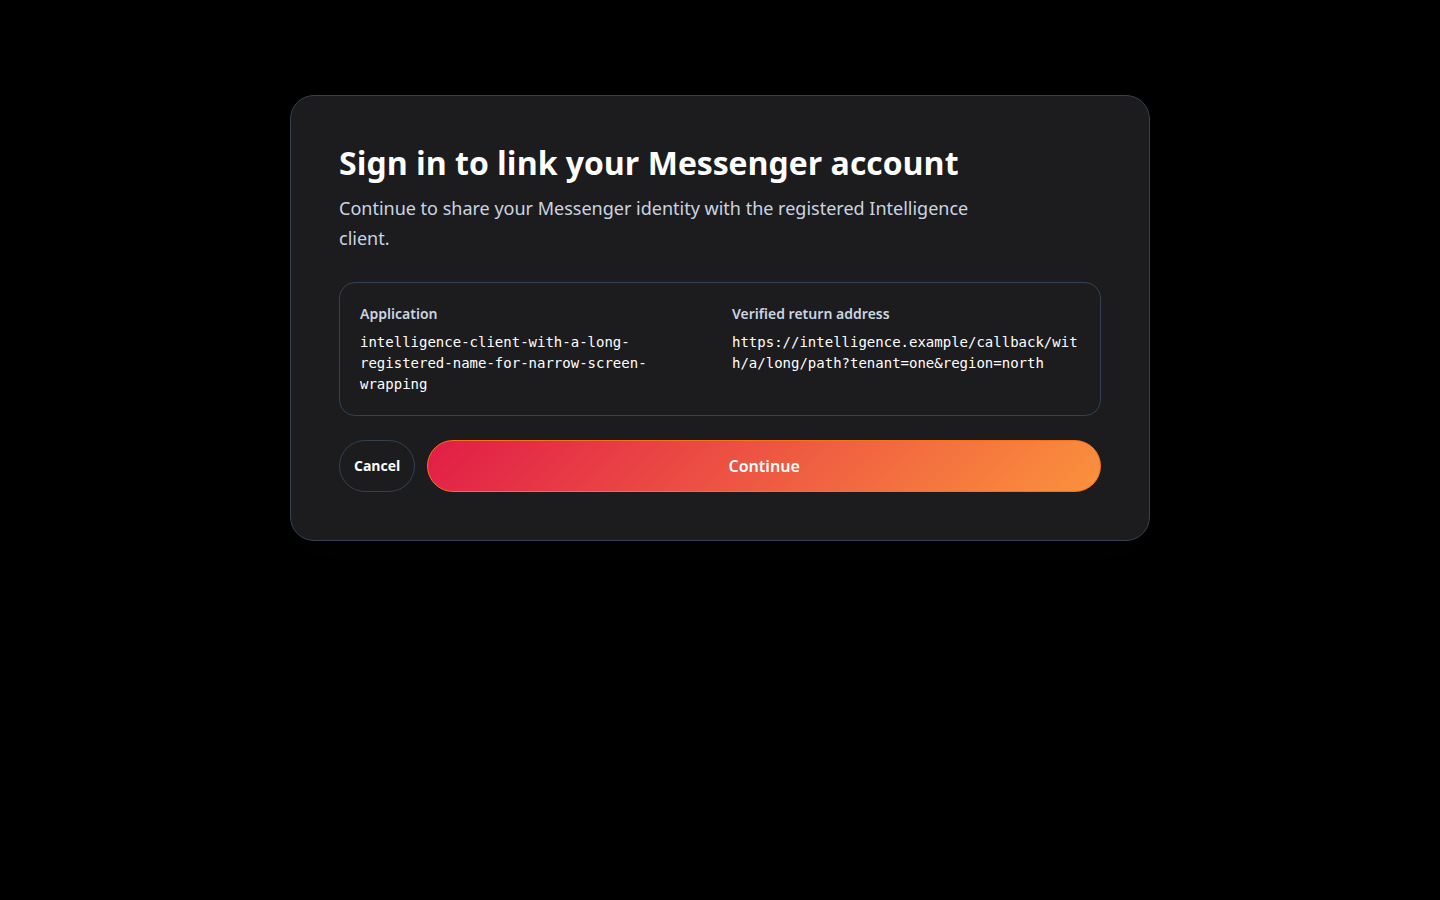
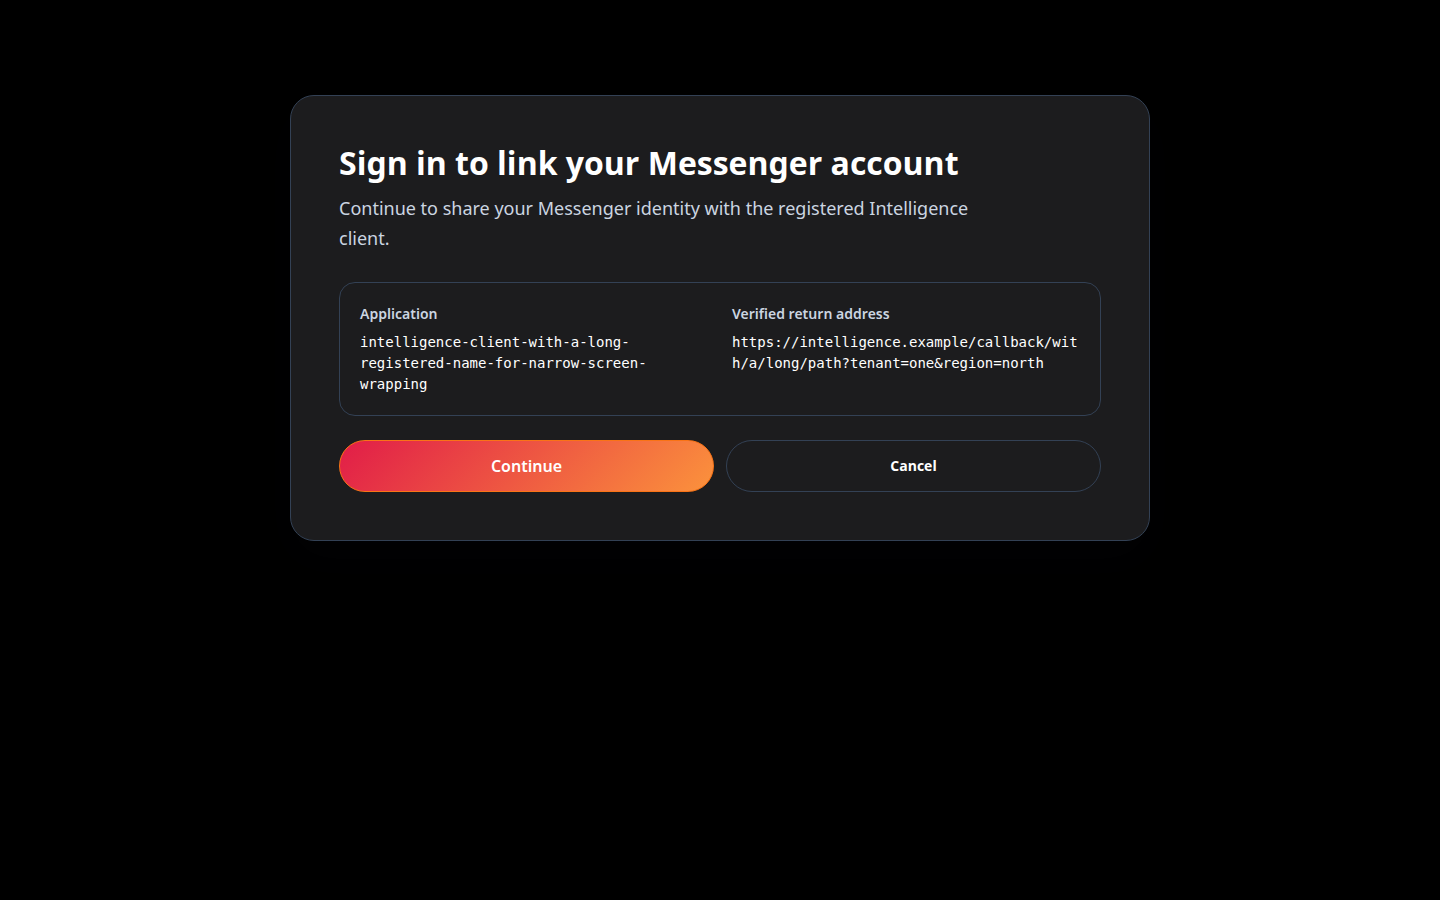
fix: balance OIDC consent action columns

Changed region(s): [[0.2188, 0.4667, 0.7812, 0.56]]

diff --git a/frontend/src/styles/intelligence-consent.css b/frontend/src/styles/intelligence-consent.css
@@ -71,9 +71,11 @@
 }
 
 .intelligence-identity-panel .intelligence-identity-actions {
-  display: flex;
+  display: grid;
+  grid-template-columns: repeat(2, minmax(0, 1fr));
   gap: 12px;
   margin-top: 24px;
+  width: 100%;
 }
 
 .intelligence-identity-panel .intelligence-identity-cancel,
@@ -83,18 +85,20 @@
 }
 
 .intelligence-identity-panel .intelligence-identity-cancel {
-  flex: 0 0 auto;
+  min-width: 0;
+  width: 100%;
 }
 
 .intelligence-identity-panel .intelligence-identity-continue {
   background: var(--color-brand-gradient, var(--color-accent));
   border-color: var(--color-accent);
   color: var(--text-on-accent, var(--color-palette-f2074b6cef37));
-  flex: 1;
   font-family: var(--font-family-ui);
   font-size: var(--font-size-body);
   font-weight: var(--font-weight-semibold);
+  min-width: 0;
   padding: 0 20px;
+  width: 100%;
 }
 
 .intelligence-identity-panel .intelligence-identity-continue:hover:not(:disabled) {
@@ -121,9 +125,6 @@
     grid-template-columns: minmax(0, 1fr);
   }
 
-  .intelligence-identity-panel .intelligence-identity-actions {
-    flex-direction: column-reverse;
-  }
 }
 
 @media (max-width: 380px) {

diff --git a/e2e/visual/intelligence-consent.spec.ts b/e2e/visual/intelligence-consent.spec.ts
@@ -40,8 +40,16 @@ for (const baseScenario of shellScenarios) {
       requestParameters.redirect_uri,
     ]);
     const continueButton = page.getByRole("button", { name: continueLabel });
+    const cancelButton = page.getByRole("button", { name: scenario.locale === "ru" ? "Отмена" : "Cancel" });
     await expect(continueButton).toBeVisible();
-    await expect(page.getByRole("button", { name: scenario.locale === "ru" ? "Отмена" : "Cancel" })).toBeVisible();
+    await expect(cancelButton).toBeVisible();
+    const actionPositions = await page.locator(".intelligence-identity-actions button").evaluateAll((buttons) =>
+      buttons.map((button) => {
+        const { x, width } = button.getBoundingClientRect();
+        return { x, width };
+      }));
+    expect(actionPositions[0].x).toBeLessThan(actionPositions[1].x);
+    expect(Math.abs(actionPositions[0].width - actionPositions[1].width)).toBeLessThan(1);
     const defaultContinueStyle = await continueButton.evaluate((button) => {
       const style = getComputedStyle(button);
       return { backgroundImage: style.backgroundImage, borderColor: style.borderColor };

diff --git a/frontend/src/pages/IntelligenceConsentPage.test.tsx b/frontend/src/pages/IntelligenceConsentPage.test.tsx
@@ -107,6 +107,16 @@ describe("IntelligenceConsentPage", () => {
     expect(mocks.authRequest).not.toHaveBeenCalled();
   });
 
+  it("places Continue before Cancel in the OIDC action row", async () => {
+    const container = await renderConsent(`/intelligence/consent${oidcConsentQuery}`);
+    const actionLabels = Array.from(container.querySelectorAll(".intelligence-identity-actions button"), (button) => button.textContent?.trim());
+
+    expect(actionLabels).toEqual([
+      englishStrings.intelligence.continueToIntelligence,
+      englishStrings.intelligence.cancelConsent,
+    ]);
+  });
+
   it("sends the unchanged OIDC request parameters when creating a browser session", async () => {
     mocks.authRequest.mockRejectedValue(new Error("unavailable"));
     const container = await renderConsent(`/intelligence/consent${oidcConsentQuery}`);

diff --git a/frontend/src/pages/IntelligenceConsentPage.tsx b/frontend/src/pages/IntelligenceConsentPage.tsx
@@ -149,8 +149,8 @@ export function IntelligenceConsentPage({ strings }: IntelligenceConsentPageProp
       </dl>
       {error && <p role="alert" className="error-text">{error}</p>}
       <div className="intelligence-identity-actions">
-        <button className="intelligence-identity-cancel" type="button" onClick={() => navigate("/")}>{strings.intelligence.cancelConsent}</button>
         <button className="intelligence-identity-continue" type="button" disabled={isSubmitting} onClick={() => void continueOIDC()}>{isSubmitting ? strings.intelligence.continuing : strings.intelligence.continueToIntelligence}</button>
+        <button className="intelligence-identity-cancel" type="button" onClick={() => navigate("/")}>{strings.intelligence.cancelConsent}</button>
       </div>
     </section></main>;
   }
